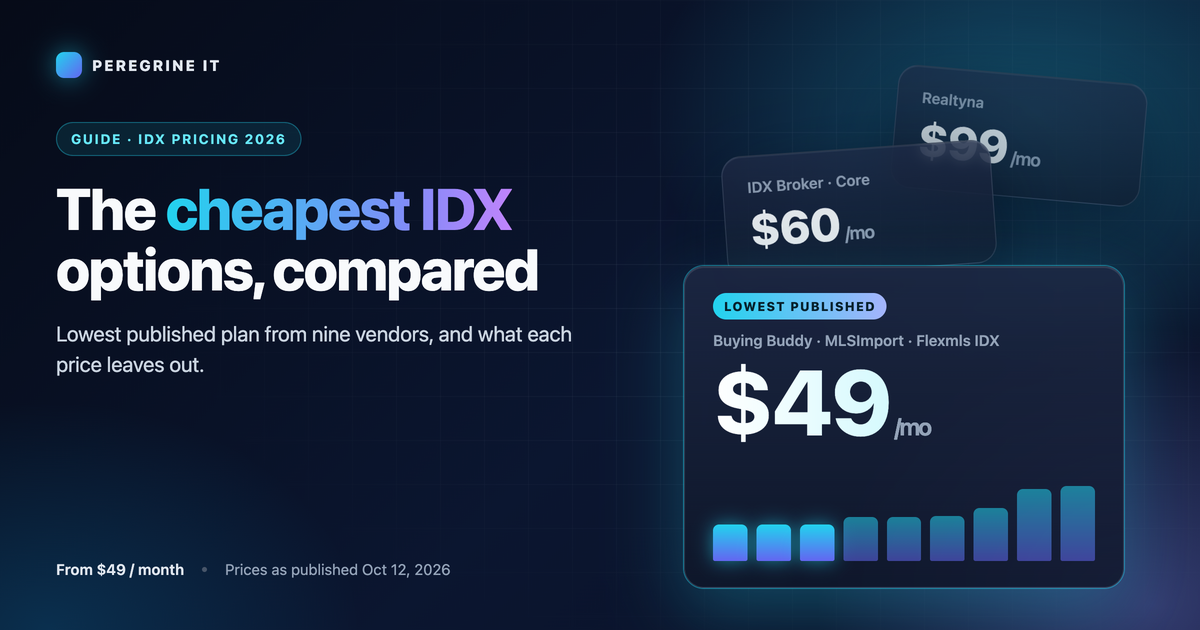
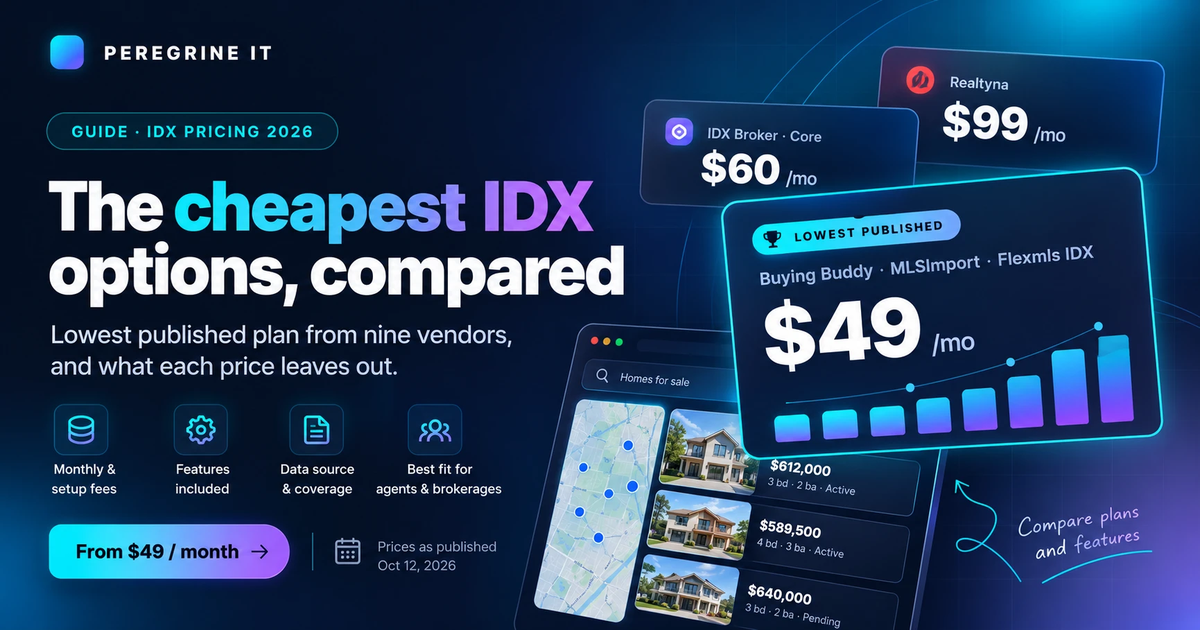
content: hero images for five more guides; supplied image used for the cheapest-IDX hero

diff --git a/design/blog-heroes/laravel-upgrade-checklist.html b/design/blog-heroes/laravel-upgrade-checklist.html
@@ -1,0 +1,41 @@
+<!doctype html><html lang="en"><head><meta charset="utf-8"><meta name="viewport" content="width=1200">
+<title>Guide · Laravel upgrade</title><style>
+*{box-sizing:border-box;margin:0;padding:0}
+html,body{width:1200px;height:630px;overflow:hidden}
+body{font-family:Inter,'SF Pro Display',system-ui,-apple-system,'Segoe UI',Roboto,Helvetica,Arial,sans-serif;color:#f8fafc;
+ background:#060b18;position:relative}
+.bg{position:absolute;inset:0;background:
+ radial-gradient(620px 420px at 86% 18%,rgba(34,211,238,.30),transparent 62%),
+ radial-gradient(560px 460px at 96% 96%,rgba(129,140,248,.34),transparent 60%),
+ radial-gradient(520px 380px at 4% 100%,rgba(14,165,233,.20),transparent 60%),
+ linear-gradient(135deg,#060b18 0%,#0b1630 55%,#0a1026 100%)}
+.grid{position:absolute;inset:0;background-image:linear-gradient(rgba(148,163,184,.07) 1px,transparent 1px),linear-gradient(90deg,rgba(148,163,184,.07) 1px,transparent 1px);
+ background-size:44px 44px;mask-image:radial-gradient(900px 520px at 70% 45%,#000 20%,transparent 75%);-webkit-mask-image:radial-gradient(900px 520px at 70% 45%,#000 20%,transparent 75%)}
+.wrap{position:absolute;inset:0;padding:52px 56px;display:flex;gap:28px}
+.left{width:560px;display:flex;flex-direction:column}
+.brand{display:flex;align-items:center;gap:10px;font-weight:800;letter-spacing:.14em;font-size:15px;color:#e2e8f0}
+.brand i{width:26px;height:26px;border-radius:8px;background:linear-gradient(135deg,#22d3ee,#6366f1);display:block;box-shadow:0 0 24px rgba(34,211,238,.55)}
+.pill{margin-top:44px;align-self:flex-start;font-size:13.5px;font-weight:700;letter-spacing:.12em;text-transform:uppercase;color:#67e8f9;
+ padding:8px 14px;border-radius:999px;background:rgba(34,211,238,.10);border:1px solid rgba(34,211,238,.35)}
+h1{margin-top:22px;font-size:58px;line-height:1.04;font-weight:800;letter-spacing:-.025em}
+h1 em{font-style:normal;background:linear-gradient(90deg,#22d3ee,#818cf8 70%,#c084fc);-webkit-background-clip:text;background-clip:text;color:transparent}
+.sub{margin-top:20px;font-size:21px;line-height:1.45;color:#cbd5e1;max-width:520px}
+.foot{margin-top:auto;display:flex;gap:18px;align-items:center;font-size:15px;color:#94a3b8}
+.foot b{color:#e2e8f0;font-weight:600}
+.dot{width:5px;height:5px;border-radius:50%;background:#475569}
+.right{flex:1;position:relative}
+.glass{background:linear-gradient(180deg,rgba(30,41,69,.82),rgba(15,23,42,.82));border:1px solid rgba(148,163,184,.22);border-radius:20px;
+ box-shadow:0 30px 80px rgba(2,6,23,.65),inset 0 1px 0 rgba(255,255,255,.07);backdrop-filter:blur(6px)}
+.glow{box-shadow:0 0 0 1px rgba(34,211,238,.45),0 24px 70px rgba(34,211,238,.28),inset 0 1px 0 rgba(255,255,255,.1)}
+.muted{color:#94a3b8}.cy{color:#67e8f9}
+.hop{position:absolute;right:26px;top:6px;display:flex;align-items:center;gap:8px}.hop span{width:50px;height:50px;border-radius:14px;display:flex;align-items:center;justify-content:center;font-weight:800;font-size:20px;background:rgba(30,41,69,.85);border:1px solid rgba(148,163,184,.3);color:#cbd5e1}
+.hop span.on{background:linear-gradient(135deg,#fb7185,#f43f5e);color:#fff;border:0;box-shadow:0 0 26px rgba(244,63,94,.6)}.hop u{width:22px;height:2px;background:#475569;display:block}
+.lc{position:absolute;right:20px;top:84px;width:430px;padding:0 0 14px;overflow:hidden}.hd{display:flex;align-items:center;gap:7px;padding:13px 16px;border-bottom:1px solid rgba(148,163,184,.18);margin-bottom:8px}.hd i{width:11px;height:11px;border-radius:50%;background:#475569}.hd b{margin-left:8px;font-size:13.5px;color:#94a3b8;font-weight:600}
+.lc p{display:flex;align-items:center;gap:12px;font-size:17px;padding:9px 20px;color:#e2e8f0}.lc s{text-decoration:none;width:24px;height:24px;border-radius:7px;background:linear-gradient(135deg,#22d3ee,#6366f1);color:#04121c;font-weight:800;font-size:15px;display:flex;align-items:center;justify-content:center}
+.lc p.todo{color:#94a3b8}.lc p.todo s{background:transparent;border:2px solid #475569}
+.opt{position:absolute;top:446px;font-size:15.5px;font-weight:700;padding:11px 16px;border-radius:13px;color:#a5f3fc}.o1{right:300px}.o2{right:128px}.o3{right:22px;color:#fda4af}</style></head><body><div class="bg"></div><div class="grid"></div>
+<div class="wrap"><div class="left"><div class="brand"><i></i>PEREGRINE IT</div><div class="pill">Guide · Laravel upgrade</div>
+<h1>Laravel <em>upgrade</em> checklist</h1><p class="sub">Upgrade in place, replace in stages or rewrite: a decision table and six phases.</p><div class="foot"><b>From Laravel's own upgrade guides</b><span class='dot'></span>No project claims</div></div><div class="right"><div class="hop"><span>9</span><u></u><span>10</span><u></u><span>11</span><u></u><span>12</span><u></u><span class="on">13</span></div>
+<div class="lc glass glow"><div class="hd"><i></i><i></i><i></i><b>upgrade-plan.md</b></div>
+<p><s>✓</s>Inventory versions and packages</p><p><s>✓</s>Add tests around what matters</p><p><s>✓</s>One major version per hop</p><p><s>✓</s>Fix deprecations, then upgrade</p><p><s>✓</s>Rehearse the deploy and rollback</p><p class="todo"><s></s>Go live, then watch the queues</p></div>
+<div class="opt glass o1">Upgrade in place</div><div class="opt glass o2">Replace in stages</div><div class="opt glass o3">Rewrite</div></div></div></body></html>

diff --git a/design/blog-heroes/mls-data-pipeline-architecture.html b/design/blog-heroes/mls-data-pipeline-architecture.html
@@ -1,0 +1,41 @@
+<!doctype html><html lang="en"><head><meta charset="utf-8"><meta name="viewport" content="width=1200">
+<title>Guide · MLS data pipeline</title><style>
+*{box-sizing:border-box;margin:0;padding:0}
+html,body{width:1200px;height:630px;overflow:hidden}
+body{font-family:Inter,'SF Pro Display',system-ui,-apple-system,'Segoe UI',Roboto,Helvetica,Arial,sans-serif;color:#f8fafc;
+ background:#060b18;position:relative}
+.bg{position:absolute;inset:0;background:
+ radial-gradient(620px 420px at 86% 18%,rgba(34,211,238,.30),transparent 62%),
+ radial-gradient(560px 460px at 96% 96%,rgba(129,140,248,.34),transparent 60%),
+ radial-gradient(520px 380px at 4% 100%,rgba(14,165,233,.20),transparent 60%),
+ linear-gradient(135deg,#060b18 0%,#0b1630 55%,#0a1026 100%)}
+.grid{position:absolute;inset:0;background-image:linear-gradient(rgba(148,163,184,.07) 1px,transparent 1px),linear-gradient(90deg,rgba(148,163,184,.07) 1px,transparent 1px);
+ background-size:44px 44px;mask-image:radial-gradient(900px 520px at 70% 45%,#000 20%,transparent 75%);-webkit-mask-image:radial-gradient(900px 520px at 70% 45%,#000 20%,transparent 75%)}
+.wrap{position:absolute;inset:0;padding:52px 56px;display:flex;gap:28px}
+.left{width:560px;display:flex;flex-direction:column}
+.brand{display:flex;align-items:center;gap:10px;font-weight:800;letter-spacing:.14em;font-size:15px;color:#e2e8f0}
+.brand i{width:26px;height:26px;border-radius:8px;background:linear-gradient(135deg,#22d3ee,#6366f1);display:block;box-shadow:0 0 24px rgba(34,211,238,.55)}
+.pill{margin-top:44px;align-self:flex-start;font-size:13.5px;font-weight:700;letter-spacing:.12em;text-transform:uppercase;color:#67e8f9;
+ padding:8px 14px;border-radius:999px;background:rgba(34,211,238,.10);border:1px solid rgba(34,211,238,.35)}
+h1{margin-top:22px;font-size:58px;line-height:1.04;font-weight:800;letter-spacing:-.025em}
+h1 em{font-style:normal;background:linear-gradient(90deg,#22d3ee,#818cf8 70%,#c084fc);-webkit-background-clip:text;background-clip:text;color:transparent}
+.sub{margin-top:20px;font-size:21px;line-height:1.45;color:#cbd5e1;max-width:520px}
+.foot{margin-top:auto;display:flex;gap:18px;align-items:center;font-size:15px;color:#94a3b8}
+.foot b{color:#e2e8f0;font-weight:600}
+.dot{width:5px;height:5px;border-radius:50%;background:#475569}
+.right{flex:1;position:relative}
+.glass{background:linear-gradient(180deg,rgba(30,41,69,.82),rgba(15,23,42,.82));border:1px solid rgba(148,163,184,.22);border-radius:20px;
+ box-shadow:0 30px 80px rgba(2,6,23,.65),inset 0 1px 0 rgba(255,255,255,.07);backdrop-filter:blur(6px)}
+.glow{box-shadow:0 0 0 1px rgba(34,211,238,.45),0 24px 70px rgba(34,211,238,.28),inset 0 1px 0 rgba(255,255,255,.1)}
+.muted{color:#94a3b8}.cy{color:#67e8f9}
+.left{width:540px}h1{font-size:54px}.flow{position:absolute;right:120px;top:12px;width:330px;display:flex;flex-direction:column;align-items:stretch}
+.nd{display:grid;grid-template-columns:44px 1fr;column-gap:14px;align-items:center;padding:13px 18px;border-radius:16px}.nd i{grid-row:span 2;width:44px;height:44px;border-radius:50%;display:flex;align-items:center;justify-content:center;font-style:normal;font-weight:800;font-size:19px;color:#04121c;background:linear-gradient(135deg,#22d3ee,#818cf8)}
+.nd b{font-size:20px}.nd small{font-size:14px;color:#94a3b8}.ar{height:22px;width:2px;margin:0 auto;background:linear-gradient(#22d3ee,#818cf8);position:relative}.ar:after{content:'';position:absolute;left:-5px;bottom:-2px;border:6px solid transparent;border-top-color:#818cf8}
+.side{position:absolute;right:0;top:214px;font-size:15px;font-weight:700;color:#a5f3fc;padding:12px 14px;border-radius:14px;writing-mode:vertical-rl}.side.s2{top:380px;color:#c4b5fd}</style></head><body><div class="bg"></div><div class="grid"></div>
+<div class="wrap"><div class="left"><div class="brand"><i></i>PEREGRINE IT</div><div class="pill">Guide · MLS data pipeline</div>
+<h1>How an <em>MLS data pipeline</em> works</h1><p class="sub">A nine-stage reference design for the RESO Web API, with failure modes.</p><div class="foot"><b>Replication</b><span class='dot'></span><b>Normalization</b><span class='dot'></span><b>Compliance</b><span class='dot'></span><b>Monitoring</b></div></div><div class="right"><div class="flow"><div class="nd glass"><i>1</i><b>Connector</b><small>OAuth 2 · paging · rate limits</small></div><div class="ar"></div>
+<div class="nd glass"><i>2</i><b>Replication</b><small>cursor per feed</small></div><div class="ar"></div>
+<div class="nd glass glow"><i>3</i><b>Normalize</b><small>RESO Data Dictionary</small></div><div class="ar"></div>
+<div class="nd glass"><i>4</i><b>Canonical store</b><small>one row per listing per feed</small></div><div class="ar"></div>
+<div class="nd glass"><i>5</i><b>Search index &amp; API</b><small>rebuildable from the store</small></div></div>
+<div class="side glass">Media worker</div><div class="side s2 glass">Display policy</div></div></div></body></html>

diff --git a/design/blog-heroes/self-storage-software-build-vs-buy.html b/design/blog-heroes/self-storage-software-build-vs-buy.html
@@ -1,0 +1,40 @@
+<!doctype html><html lang="en"><head><meta charset="utf-8"><meta name="viewport" content="width=1200">
+<title>Guide · Self-storage software</title><style>
+*{box-sizing:border-box;margin:0;padding:0}
+html,body{width:1200px;height:630px;overflow:hidden}
+body{font-family:Inter,'SF Pro Display',system-ui,-apple-system,'Segoe UI',Roboto,Helvetica,Arial,sans-serif;color:#f8fafc;
+ background:#060b18;position:relative}
+.bg{position:absolute;inset:0;background:
+ radial-gradient(620px 420px at 86% 18%,rgba(34,211,238,.30),transparent 62%),
+ radial-gradient(560px 460px at 96% 96%,rgba(129,140,248,.34),transparent 60%),
+ radial-gradient(520px 380px at 4% 100%,rgba(14,165,233,.20),transparent 60%),
+ linear-gradient(135deg,#060b18 0%,#0b1630 55%,#0a1026 100%)}
+.grid{position:absolute;inset:0;background-image:linear-gradient(rgba(148,163,184,.07) 1px,transparent 1px),linear-gradient(90deg,rgba(148,163,184,.07) 1px,transparent 1px);
+ background-size:44px 44px;mask-image:radial-gradient(900px 520px at 70% 45%,#000 20%,transparent 75%);-webkit-mask-image:radial-gradient(900px 520px at 70% 45%,#000 20%,transparent 75%)}
+.wrap{position:absolute;inset:0;padding:52px 56px;display:flex;gap:28px}
+.left{width:560px;display:flex;flex-direction:column}
+.brand{display:flex;align-items:center;gap:10px;font-weight:800;letter-spacing:.14em;font-size:15px;color:#e2e8f0}
+.brand i{width:26px;height:26px;border-radius:8px;background:linear-gradient(135deg,#22d3ee,#6366f1);display:block;box-shadow:0 0 24px rgba(34,211,238,.55)}
+.pill{margin-top:44px;align-self:flex-start;font-size:13.5px;font-weight:700;letter-spacing:.12em;text-transform:uppercase;color:#67e8f9;
+ padding:8px 14px;border-radius:999px;background:rgba(34,211,238,.10);border:1px solid rgba(34,211,238,.35)}
+h1{margin-top:22px;font-size:58px;line-height:1.04;font-weight:800;letter-spacing:-.025em}
+h1 em{font-style:normal;background:linear-gradient(90deg,#22d3ee,#818cf8 70%,#c084fc);-webkit-background-clip:text;background-clip:text;color:transparent}
+.sub{margin-top:20px;font-size:21px;line-height:1.45;color:#cbd5e1;max-width:520px}
+.foot{margin-top:auto;display:flex;gap:18px;align-items:center;font-size:15px;color:#94a3b8}
+.foot b{color:#e2e8f0;font-weight:600}
+.dot{width:5px;height:5px;border-radius:50%;background:#475569}
+.right{flex:1;position:relative}
+.glass{background:linear-gradient(180deg,rgba(30,41,69,.82),rgba(15,23,42,.82));border:1px solid rgba(148,163,184,.22);border-radius:20px;
+ box-shadow:0 30px 80px rgba(2,6,23,.65),inset 0 1px 0 rgba(255,255,255,.07);backdrop-filter:blur(6px)}
+.glow{box-shadow:0 0 0 1px rgba(34,211,238,.45),0 24px 70px rgba(34,211,238,.28),inset 0 1px 0 rgba(255,255,255,.1)}
+.muted{color:#94a3b8}.cy{color:#67e8f9}
+.left{width:560px}h1{font-size:52px}.ch{position:absolute;top:14px;width:236px;padding:20px 22px;border-radius:20px;display:flex;flex-direction:column}.ch b{font-size:34px;font-weight:800}.ch small{font-size:15px;color:#94a3b8;margin-top:4px}
+.c1{right:262px}.c2{right:0}.c2 b{background:linear-gradient(90deg,#22d3ee,#a5b4fc);-webkit-background-clip:text;background-clip:text;color:transparent}
+.units{position:absolute;right:0;top:186px;width:500px}.roof{height:26px;background:linear-gradient(180deg,#334155,#1e293b);border-radius:8px 8px 0 0;border:1px solid rgba(148,163,184,.3)}
+.row{display:flex;gap:12px;padding:14px 14px 0;background:linear-gradient(180deg,#16233f,#0e1830);border-left:1px solid rgba(148,163,184,.25);border-right:1px solid rgba(148,163,184,.25)}
+.row u{flex:1;height:176px;border-radius:6px 6px 0 0;display:block;background:repeating-linear-gradient(180deg,#f59e0b 0 13px,#d97706 13px 15px);box-shadow:inset 0 0 0 2px rgba(120,53,15,.5),0 0 26px rgba(245,158,11,.25)}
+.row u:nth-child(2),.row u:nth-child(5){background:repeating-linear-gradient(180deg,#22d3ee 0 13px,#0891b2 13px 15px);box-shadow:inset 0 0 0 2px rgba(8,51,68,.6),0 0 26px rgba(34,211,238,.3)}
+.ground{height:14px;background:#334155;border-radius:0 0 8px 8px;box-shadow:0 30px 60px rgba(2,6,23,.8)}</style></head><body><div class="bg"></div><div class="grid"></div>
+<div class="wrap"><div class="left"><div class="brand"><i></i>PEREGRINE IT</div><div class="pill">Guide · Self-storage software</div>
+<h1>Self-storage software: <em>build or buy?</em></h1><p class="sub">What the published products cover, where they stop, and when a custom build pays off.</p><div class="foot"><b>Costs</b><span class='dot'></span><b>Integrations</b><span class='dot'></span><b>Gate and lock access</b><span class='dot'></span><b>Billing</b></div></div><div class="right"><div class="ch glass c1"><b>Buy</b><small>faster start</small></div><div class="ch glass glow c2"><b>Build</b><small>your workflow · your data</small></div>
+<div class="units"><div class="roof"></div><div class="row"><u></u><u></u><u></u><u></u><u></u></div><div class="ground"></div></div></div></div></body></html>

diff --git a/design/blog-heroes/odoo-shopify-marketplace-integration.html b/design/blog-heroes/odoo-shopify-marketplace-integration.html
@@ -1,0 +1,39 @@
+<!doctype html><html lang="en"><head><meta charset="utf-8"><meta name="viewport" content="width=1200">
+<title>Guide · Odoo + Shopify integration</title><style>
+*{box-sizing:border-box;margin:0;padding:0}
+html,body{width:1200px;height:630px;overflow:hidden}
+body{font-family:Inter,'SF Pro Display',system-ui,-apple-system,'Segoe UI',Roboto,Helvetica,Arial,sans-serif;color:#f8fafc;
+ background:#060b18;position:relative}
+.bg{position:absolute;inset:0;background:
+ radial-gradient(620px 420px at 86% 18%,rgba(34,211,238,.30),transparent 62%),
+ radial-gradient(560px 460px at 96% 96%,rgba(129,140,248,.34),transparent 60%),
+ radial-gradient(520px 380px at 4% 100%,rgba(14,165,233,.20),transparent 60%),
+ linear-gradient(135deg,#060b18 0%,#0b1630 55%,#0a1026 100%)}
+.grid{position:absolute;inset:0;background-image:linear-gradient(rgba(148,163,184,.07) 1px,transparent 1px),linear-gradient(90deg,rgba(148,163,184,.07) 1px,transparent 1px);
+ background-size:44px 44px;mask-image:radial-gradient(900px 520px at 70% 45%,#000 20%,transparent 75%);-webkit-mask-image:radial-gradient(900px 520px at 70% 45%,#000 20%,transparent 75%)}
+.wrap{position:absolute;inset:0;padding:52px 56px;display:flex;gap:28px}
+.left{width:560px;display:flex;flex-direction:column}
+.brand{display:flex;align-items:center;gap:10px;font-weight:800;letter-spacing:.14em;font-size:15px;color:#e2e8f0}
+.brand i{width:26px;height:26px;border-radius:8px;background:linear-gradient(135deg,#22d3ee,#6366f1);display:block;box-shadow:0 0 24px rgba(34,211,238,.55)}
+.pill{margin-top:44px;align-self:flex-start;font-size:13.5px;font-weight:700;letter-spacing:.12em;text-transform:uppercase;color:#67e8f9;
+ padding:8px 14px;border-radius:999px;background:rgba(34,211,238,.10);border:1px solid rgba(34,211,238,.35)}
+h1{margin-top:22px;font-size:58px;line-height:1.04;font-weight:800;letter-spacing:-.025em}
+h1 em{font-style:normal;background:linear-gradient(90deg,#22d3ee,#818cf8 70%,#c084fc);-webkit-background-clip:text;background-clip:text;color:transparent}
+.sub{margin-top:20px;font-size:21px;line-height:1.45;color:#cbd5e1;max-width:520px}
+.foot{margin-top:auto;display:flex;gap:18px;align-items:center;font-size:15px;color:#94a3b8}
+.foot b{color:#e2e8f0;font-weight:600}
+.dot{width:5px;height:5px;border-radius:50%;background:#475569}
+.right{flex:1;position:relative}
+.glass{background:linear-gradient(180deg,rgba(30,41,69,.82),rgba(15,23,42,.82));border:1px solid rgba(148,163,184,.22);border-radius:20px;
+ box-shadow:0 30px 80px rgba(2,6,23,.65),inset 0 1px 0 rgba(255,255,255,.07);backdrop-filter:blur(6px)}
+.glow{box-shadow:0 0 0 1px rgba(34,211,238,.45),0 24px 70px rgba(34,211,238,.28),inset 0 1px 0 rgba(255,255,255,.1)}
+.muted{color:#94a3b8}.cy{color:#67e8f9}
+.left{width:540px}h1{font-size:54px}.sys{position:absolute;top:36px;width:206px;height:150px;display:flex;flex-direction:column;justify-content:center;align-items:center;border-radius:24px}.sys b{font-size:34px;font-weight:800;letter-spacing:-.02em}.sys small{font-size:14px;color:#94a3b8;margin-top:6px}
+.sys.a{right:330px}.sys.a b{color:#e9d5ff}.sys.b{right:0}.sys.b b{color:#a7f3d0}.lk{position:absolute;right:212px;top:62px;width:112px;height:78px}
+.rec{position:absolute;right:0;top:236px;width:536px;display:grid;grid-template-columns:1fr 1fr;gap:14px}.rec div{padding:16px 20px;border-radius:16px;font-size:20px;font-weight:800;display:flex;flex-direction:column}.rec small{font-size:14.5px;font-weight:600;color:#67e8f9;margin-top:4px}</style></head><body><div class="bg"></div><div class="grid"></div>
+<div class="wrap"><div class="left"><div class="brand"><i></i>PEREGRINE IT</div><div class="pill">Guide · Odoo + Shopify integration</div>
+<h1><em>Odoo and Shopify</em> integration guide</h1><p class="sub">Which system owns each record, webhooks plus polling, rate limits and failure modes.</p><div class="foot"><b>From Odoo and Shopify documentation</b></div></div><div class="right"><div class="sys glass a"><b>Odoo</b><small>ERP · stock · accounting</small></div><div class="sys glass glow b"><b>Shopify</b><small>storefront · checkout</small></div>
+<svg class="lk" viewBox="0 0 160 110"><defs><linearGradient id="l" x1="0" x2="1"><stop offset="0" stop-color="#22d3ee"/><stop offset="1" stop-color="#818cf8"/></linearGradient></defs>
+<path d="M12 36 H140 M124 20 L142 36 L124 52" fill="none" stroke="url(#l)" stroke-width="5" stroke-linecap="round" stroke-linejoin="round"/>
+<path d="M148 78 H20 M36 62 L18 78 L36 94" fill="none" stroke="url(#l)" stroke-width="5" stroke-linecap="round" stroke-linejoin="round"/></svg>
+<div class="rec"><div class="glass">Products<small>Odoo → Shopify</small></div><div class="glass">Stock<small>Odoo → Shopify</small></div><div class="glass">Orders<small>Shopify → Odoo</small></div><div class="glass">Refunds<small>Shopify → Odoo</small></div></div></div></div></body></html>

diff --git a/design/blog-heroes/investor-portal-security-checklist.html b/design/blog-heroes/investor-portal-security-checklist.html
@@ -1,0 +1,40 @@
+<!doctype html><html lang="en"><head><meta charset="utf-8"><meta name="viewport" content="width=1200">
+<title>Guide · Investor portal security</title><style>
+*{box-sizing:border-box;margin:0;padding:0}
+html,body{width:1200px;height:630px;overflow:hidden}
+body{font-family:Inter,'SF Pro Display',system-ui,-apple-system,'Segoe UI',Roboto,Helvetica,Arial,sans-serif;color:#f8fafc;
+ background:#060b18;position:relative}
+.bg{position:absolute;inset:0;background:
+ radial-gradient(620px 420px at 86% 18%,rgba(34,211,238,.30),transparent 62%),
+ radial-gradient(560px 460px at 96% 96%,rgba(129,140,248,.34),transparent 60%),
+ radial-gradient(520px 380px at 4% 100%,rgba(14,165,233,.20),transparent 60%),
+ linear-gradient(135deg,#060b18 0%,#0b1630 55%,#0a1026 100%)}
+.grid{position:absolute;inset:0;background-image:linear-gradient(rgba(148,163,184,.07) 1px,transparent 1px),linear-gradient(90deg,rgba(148,163,184,.07) 1px,transparent 1px);
+ background-size:44px 44px;mask-image:radial-gradient(900px 520px at 70% 45%,#000 20%,transparent 75%);-webkit-mask-image:radial-gradient(900px 520px at 70% 45%,#000 20%,transparent 75%)}
+.wrap{position:absolute;inset:0;padding:52px 56px;display:flex;gap:28px}
+.left{width:560px;display:flex;flex-direction:column}
+.brand{display:flex;align-items:center;gap:10px;font-weight:800;letter-spacing:.14em;font-size:15px;color:#e2e8f0}
+.brand i{width:26px;height:26px;border-radius:8px;background:linear-gradient(135deg,#22d3ee,#6366f1);display:block;box-shadow:0 0 24px rgba(34,211,238,.55)}
+.pill{margin-top:44px;align-self:flex-start;font-size:13.5px;font-weight:700;letter-spacing:.12em;text-transform:uppercase;color:#67e8f9;
+ padding:8px 14px;border-radius:999px;background:rgba(34,211,238,.10);border:1px solid rgba(34,211,238,.35)}
+h1{margin-top:22px;font-size:58px;line-height:1.04;font-weight:800;letter-spacing:-.025em}
+h1 em{font-style:normal;background:linear-gradient(90deg,#22d3ee,#818cf8 70%,#c084fc);-webkit-background-clip:text;background-clip:text;color:transparent}
+.sub{margin-top:20px;font-size:21px;line-height:1.45;color:#cbd5e1;max-width:520px}
+.foot{margin-top:auto;display:flex;gap:18px;align-items:center;font-size:15px;color:#94a3b8}
+.foot b{color:#e2e8f0;font-weight:600}
+.dot{width:5px;height:5px;border-radius:50%;background:#475569}
+.right{flex:1;position:relative}
+.glass{background:linear-gradient(180deg,rgba(30,41,69,.82),rgba(15,23,42,.82));border:1px solid rgba(148,163,184,.22);border-radius:20px;
+ box-shadow:0 30px 80px rgba(2,6,23,.65),inset 0 1px 0 rgba(255,255,255,.07);backdrop-filter:blur(6px)}
+.glow{box-shadow:0 0 0 1px rgba(34,211,238,.45),0 24px 70px rgba(34,211,238,.28),inset 0 1px 0 rgba(255,255,255,.1)}
+.muted{color:#94a3b8}.cy{color:#67e8f9}
+.left{width:560px}h1{font-size:54px}.sh{position:absolute;right:150px;top:44px;width:270px;height:306px}
+.ck{position:absolute;font-size:16.5px;font-weight:700;color:#e2e8f0;padding:12px 18px;border-radius:14px}.k1{right:0;top:6px}.k2{right:-6px;top:156px}.k3{right:330px;top:300px}.k4{right:20px;top:372px}.k1,.k3{color:#a5f3fc}</style></head><body><div class="bg"></div><div class="grid"></div>
+<div class="wrap"><div class="left"><div class="brand"><i></i>PEREGRINE IT</div><div class="pill">Guide · Investor portal security</div>
+<h1>Investor portal <em>security checklist</em></h1><p class="sub">Access by role and entity, document controls, audit trail and sign-in, mapped to public standards.</p><div class="foot"><b>OWASP ASVS 5.0</b><span class='dot'></span><b>NIST SP 800-63B</b></div></div><div class="right"><svg class="sh" viewBox="0 0 300 340"><defs><linearGradient id="s1" x1="0" y1="0" x2="1" y2="1"><stop offset="0" stop-color="#22d3ee"/><stop offset="1" stop-color="#6366f1"/></linearGradient><filter id="b"><feGaussianBlur stdDeviation="14"/></filter></defs>
+<path d="M150 14 L276 60 V168 C276 244 222 300 150 326 C78 300 24 244 24 168 V60 Z" fill="#22d3ee" opacity=".35" filter="url(#b)"/>
+<path d="M150 14 L276 60 V168 C276 244 222 300 150 326 C78 300 24 244 24 168 V60 Z" fill="#0b1630" stroke="url(#s1)" stroke-width="5"/>
+<path d="M150 44 L250 80 V168 C250 228 208 274 150 296 C92 274 50 228 50 168 V80 Z" fill="url(#s1)" opacity=".16"/>
+<rect x="104" y="150" width="92" height="76" rx="14" fill="url(#s1)"/><path d="M122 150 v-22 a28 28 0 0 1 56 0 v22" fill="none" stroke="url(#s1)" stroke-width="13" stroke-linecap="round"/>
+<circle cx="150" cy="182" r="9" fill="#06202b"/><rect x="146" y="184" width="8" height="22" rx="4" fill="#06202b"/></svg>
+<div class="ck glass k1">✓ Access by role and entity</div><div class="ck glass k2">✓ Watermarked documents</div><div class="ck glass k3">✓ Audit trail</div><div class="ck glass k4">✓ Sessions and sign-in</div></div></div></body></html>

diff --git a/src/data/guides.ts b/src/data/guides.ts
@@ -135,6 +135,7 @@ export const guides: Guide[] = [
   },
   {
     slug: 'self-storage-software-build-vs-buy',
+    hero: 'Illustration: a row of storage unit doors under two cards labelled Buy and Build.',
     related: ['custom-saas-vs-off-the-shelf-crm-for-brokerages'],
     cta: {
       heading: 'Weighing a Custom Self-Storage Platform?',
@@ -183,6 +184,7 @@ export const guides: Guide[] = [
   },
   {
     slug: 'mls-data-pipeline-architecture',
+    hero: 'Illustration: five pipeline stages from connector to search index and API, with media worker and display policy alongside.',
     related: ['real-estate-platform-tech-stack', 'mls-boards-compared'],
     cta: {
       heading: 'Designing or Repairing an MLS Pipeline?',
@@ -199,6 +201,7 @@ export const guides: Guide[] = [
   },
   {
     slug: 'laravel-upgrade-checklist',
+    hero: 'Illustration: Laravel versions 9 to 13 in a row above an upgrade checklist and three routes: upgrade in place, replace in stages, rewrite.',
     related: ['odoo-implementation-cost', 'custom-saas-vs-off-the-shelf-crm-for-brokerages'],
     cta: {
       heading: 'Planning a Laravel Upgrade?',
@@ -215,6 +218,7 @@ export const guides: Guide[] = [
   },
   {
     slug: 'investor-portal-security-checklist',
+    hero: 'Illustration: a shield with a padlock and four checklist items: access by role and entity, watermarked documents, audit trail, sessions and sign-in.',
     related: ['investor-portal-vs-file-sharing', 'cost-to-build-a-real-estate-platform'],
     cta: {
       heading: 'Specifying or Reviewing an Investor Portal?',
@@ -231,6 +235,7 @@ export const guides: Guide[] = [
   },
   {
     slug: 'odoo-shopify-marketplace-integration',
+    hero: 'Illustration: Odoo and Shopify connected by arrows, with the sync direction for products, stock, orders and refunds.',
     related: ['odoo-implementation-cost', 'laravel-upgrade-checklist'],
     cta: {
       heading: 'Connecting Odoo to a Sales Channel?',
@@ -247,7 +252,7 @@ export const guides: Guide[] = [
   },
   {
     slug: 'cheapest-idx-options',
-    hero: 'Illustration: price cards showing the lowest published IDX plans, from $49 per month.',
+    hero: 'Illustration: price cards for the lowest published IDX plans ($49, $60 and $99 per month) beside a listing search screen.',
     related: ['mls-idx-integration-cost', 'idx-vendor-vs-custom-build'],
     cta: {
       heading: 'Outgrown a Low-Cost IDX Plan?',

diff --git a/design/blog-heroes/build.py b/design/blog-heroes/build.py
@@ -114,8 +114,72 @@ seo = page("Guide · Search visibility", "<em>SEO, AEO &amp; GEO</em> for real e
 .core{position:absolute;right:186px;top:246px;width:136px;text-align:center;font-size:16px;font-weight:800;line-height:1.25;color:#04121c;background:#f8fafc;border-radius:14px;padding:10px 8px;box-shadow:0 10px 30px rgba(2,6,23,.6)}
 .q{position:absolute;right:38px;top:6px;display:flex;gap:10px;align-items:center;font-size:16.5px;color:#e2e8f0;padding:12px 18px;border-radius:999px}""")
 
+
+pipeline = page("Guide · MLS data pipeline", "How an <em>MLS data pipeline</em> works", "A nine-stage reference design for the RESO Web API, with failure modes.",
+ "<b>Replication</b><span class='dot'></span><b>Normalization</b><span class='dot'></span><b>Compliance</b><span class='dot'></span><b>Monitoring</b>",
+ """<div class="flow"><div class="nd glass"><i>1</i><b>Connector</b><small>OAuth 2 · paging · rate limits</small></div><div class="ar"></div>
+<div class="nd glass"><i>2</i><b>Replication</b><small>cursor per feed</small></div><div class="ar"></div>
+<div class="nd glass glow"><i>3</i><b>Normalize</b><small>RESO Data Dictionary</small></div><div class="ar"></div>
+<div class="nd glass"><i>4</i><b>Canonical store</b><small>one row per listing per feed</small></div><div class="ar"></div>
+<div class="nd glass"><i>5</i><b>Search index &amp; API</b><small>rebuildable from the store</small></div></div>
+<div class="side glass">Media worker</div><div class="side s2 glass">Display policy</div>""",
+ """.left{width:540px}h1{font-size:54px}.flow{position:absolute;right:120px;top:12px;width:330px;display:flex;flex-direction:column;align-items:stretch}
+.nd{display:grid;grid-template-columns:44px 1fr;column-gap:14px;align-items:center;padding:13px 18px;border-radius:16px}.nd i{grid-row:span 2;width:44px;height:44px;border-radius:50%;display:flex;align-items:center;justify-content:center;font-style:normal;font-weight:800;font-size:19px;color:#04121c;background:linear-gradient(135deg,#22d3ee,#818cf8)}
+.nd b{font-size:20px}.nd small{font-size:14px;color:#94a3b8}.ar{height:22px;width:2px;margin:0 auto;background:linear-gradient(#22d3ee,#818cf8);position:relative}.ar:after{content:'';position:absolute;left:-5px;bottom:-2px;border:6px solid transparent;border-top-color:#818cf8}
+.side{position:absolute;right:0;top:214px;font-size:15px;font-weight:700;color:#a5f3fc;padding:12px 14px;border-radius:14px;writing-mode:vertical-rl}.side.s2{top:380px;color:#c4b5fd}""")
+
+security = page("Guide · Investor portal security", "Investor portal <em>security checklist</em>", "Access by role and entity, document controls, audit trail and sign-in, mapped to public standards.",
+ "<b>OWASP ASVS 5.0</b><span class='dot'></span><b>NIST SP 800-63B</b>",
+ """<svg class="sh" viewBox="0 0 300 340"><defs><linearGradient id="s1" x1="0" y1="0" x2="1" y2="1"><stop offset="0" stop-color="#22d3ee"/><stop offset="1" stop-color="#6366f1"/></linearGradient><filter id="b"><feGaussianBlur stdDeviation="14"/></filter></defs>
+<path d="M150 14 L276 60 V168 C276 244 222 300 150 326 C78 300 24 244 24 168 V60 Z" fill="#22d3ee" opacity=".35" filter="url(#b)"/>
+<path d="M150 14 L276 60 V168 C276 244 222 300 150 326 C78 300 24 244 24 168 V60 Z" fill="#0b1630" stroke="url(#s1)" stroke-width="5"/>
+<path d="M150 44 L250 80 V168 C250 228 208 274 150 296 C92 274 50 228 50 168 V80 Z" fill="url(#s1)" opacity=".16"/>
+<rect x="104" y="150" width="92" height="76" rx="14" fill="url(#s1)"/><path d="M122 150 v-22 a28 28 0 0 1 56 0 v22" fill="none" stroke="url(#s1)" stroke-width="13" stroke-linecap="round"/>
+<circle cx="150" cy="182" r="9" fill="#06202b"/><rect x="146" y="184" width="8" height="22" rx="4" fill="#06202b"/></svg>
+<div class="ck glass k1">✓ Access by role and entity</div><div class="ck glass k2">✓ Watermarked documents</div><div class="ck glass k3">✓ Audit trail</div><div class="ck glass k4">✓ Sessions and sign-in</div>""",
+ """.left{width:560px}h1{font-size:54px}.sh{position:absolute;right:150px;top:44px;width:270px;height:306px}
+.ck{position:absolute;font-size:16.5px;font-weight:700;color:#e2e8f0;padding:12px 18px;border-radius:14px}.k1{right:0;top:6px}.k2{right:-6px;top:156px}.k3{right:330px;top:300px}.k4{right:20px;top:372px}.k1,.k3{color:#a5f3fc}""")
+
+laravel = page("Guide · Laravel upgrade", "Laravel <em>upgrade</em> checklist", "Upgrade in place, replace in stages or rewrite: a decision table and six phases.",
+ "<b>From Laravel's own upgrade guides</b><span class='dot'></span>No project claims",
+ """<div class="hop"><span>9</span><u></u><span>10</span><u></u><span>11</span><u></u><span>12</span><u></u><span class="on">13</span></div>
+<div class="lc glass glow"><div class="hd"><i></i><i></i><i></i><b>upgrade-plan.md</b></div>
+<p><s>✓</s>Inventory versions and packages</p><p><s>✓</s>Add tests around what matters</p><p><s>✓</s>One major version per hop</p><p><s>✓</s>Fix deprecations, then upgrade</p><p><s>✓</s>Rehearse the deploy and rollback</p><p class="todo"><s></s>Go live, then watch the queues</p></div>
+<div class="opt glass o1">Upgrade in place</div><div class="opt glass o2">Replace in stages</div><div class="opt glass o3">Rewrite</div>""",
+ """.hop{position:absolute;right:26px;top:6px;display:flex;align-items:center;gap:8px}.hop span{width:50px;height:50px;border-radius:14px;display:flex;align-items:center;justify-content:center;font-weight:800;font-size:20px;background:rgba(30,41,69,.85);border:1px solid rgba(148,163,184,.3);color:#cbd5e1}
+.hop span.on{background:linear-gradient(135deg,#fb7185,#f43f5e);color:#fff;border:0;box-shadow:0 0 26px rgba(244,63,94,.6)}.hop u{width:22px;height:2px;background:#475569;display:block}
+.lc{position:absolute;right:20px;top:84px;width:430px;padding:0 0 14px;overflow:hidden}.hd{display:flex;align-items:center;gap:7px;padding:13px 16px;border-bottom:1px solid rgba(148,163,184,.18);margin-bottom:8px}.hd i{width:11px;height:11px;border-radius:50%;background:#475569}.hd b{margin-left:8px;font-size:13.5px;color:#94a3b8;font-weight:600}
+.lc p{display:flex;align-items:center;gap:12px;font-size:17px;padding:9px 20px;color:#e2e8f0}.lc s{text-decoration:none;width:24px;height:24px;border-radius:7px;background:linear-gradient(135deg,#22d3ee,#6366f1);color:#04121c;font-weight:800;font-size:15px;display:flex;align-items:center;justify-content:center}
+.lc p.todo{color:#94a3b8}.lc p.todo s{background:transparent;border:2px solid #475569}
+.opt{position:absolute;top:446px;font-size:15.5px;font-weight:700;padding:11px 16px;border-radius:13px;color:#a5f3fc}.o1{right:300px}.o2{right:128px}.o3{right:22px;color:#fda4af}""")
+
+odoo = page("Guide · Odoo + Shopify integration", "<em>Odoo and Shopify</em> integration guide", "Which system owns each record, webhooks plus polling, rate limits and failure modes.",
+ "<b>From Odoo and Shopify documentation</b>",
+ """<div class="sys glass a"><b>Odoo</b><small>ERP · stock · accounting</small></div><div class="sys glass glow b"><b>Shopify</b><small>storefront · checkout</small></div>
+<svg class="lk" viewBox="0 0 160 110"><defs><linearGradient id="l" x1="0" x2="1"><stop offset="0" stop-color="#22d3ee"/><stop offset="1" stop-color="#818cf8"/></linearGradient></defs>
+<path d="M12 36 H140 M124 20 L142 36 L124 52" fill="none" stroke="url(#l)" stroke-width="5" stroke-linecap="round" stroke-linejoin="round"/>
+<path d="M148 78 H20 M36 62 L18 78 L36 94" fill="none" stroke="url(#l)" stroke-width="5" stroke-linecap="round" stroke-linejoin="round"/></svg>
+<div class="rec"><div class="glass">Products<small>Odoo → Shopify</small></div><div class="glass">Stock<small>Odoo → Shopify</small></div><div class="glass">Orders<small>Shopify → Odoo</small></div><div class="glass">Refunds<small>Shopify → Odoo</small></div></div>""",
+ """.left{width:540px}h1{font-size:54px}.sys{position:absolute;top:36px;width:206px;height:150px;display:flex;flex-direction:column;justify-content:center;align-items:center;border-radius:24px}.sys b{font-size:34px;font-weight:800;letter-spacing:-.02em}.sys small{font-size:14px;color:#94a3b8;margin-top:6px}
+.sys.a{right:330px}.sys.a b{color:#e9d5ff}.sys.b{right:0}.sys.b b{color:#a7f3d0}.lk{position:absolute;right:212px;top:62px;width:112px;height:78px}
+.rec{position:absolute;right:0;top:236px;width:536px;display:grid;grid-template-columns:1fr 1fr;gap:14px}.rec div{padding:16px 20px;border-radius:16px;font-size:20px;font-weight:800;display:flex;flex-direction:column}.rec small{font-size:14.5px;font-weight:600;color:#67e8f9;margin-top:4px}""")
+
+storage = page("Guide · Self-storage software", "Self-storage software: <em>build or buy?</em>", "What the published products cover, where they stop, and when a custom build pays off.",
+ "<b>Costs</b><span class='dot'></span><b>Integrations</b><span class='dot'></span><b>Gate and lock access</b><span class='dot'></span><b>Billing</b>",
+ """<div class="ch glass c1"><b>Buy</b><small>faster start</small></div><div class="ch glass glow c2"><b>Build</b><small>your workflow · your data</small></div>
+<div class="units"><div class="roof"></div><div class="row"><u></u><u></u><u></u><u></u><u></u></div><div class="ground"></div></div>""",
+ """.left{width:560px}h1{font-size:52px}.ch{position:absolute;top:14px;width:236px;padding:20px 22px;border-radius:20px;display:flex;flex-direction:column}.ch b{font-size:34px;font-weight:800}.ch small{font-size:15px;color:#94a3b8;margin-top:4px}
+.c1{right:262px}.c2{right:0}.c2 b{background:linear-gradient(90deg,#22d3ee,#a5b4fc);-webkit-background-clip:text;background-clip:text;color:transparent}
+.units{position:absolute;right:0;top:186px;width:500px}.roof{height:26px;background:linear-gradient(180deg,#334155,#1e293b);border-radius:8px 8px 0 0;border:1px solid rgba(148,163,184,.3)}
+.row{display:flex;gap:12px;padding:14px 14px 0;background:linear-gradient(180deg,#16233f,#0e1830);border-left:1px solid rgba(148,163,184,.25);border-right:1px solid rgba(148,163,184,.25)}
+.row u{flex:1;height:176px;border-radius:6px 6px 0 0;display:block;background:repeating-linear-gradient(180deg,#f59e0b 0 13px,#d97706 13px 15px);box-shadow:inset 0 0 0 2px rgba(120,53,15,.5),0 0 26px rgba(245,158,11,.25)}
+.row u:nth-child(2),.row u:nth-child(5){background:repeating-linear-gradient(180deg,#22d3ee 0 13px,#0891b2 13px 15px);box-shadow:inset 0 0 0 2px rgba(8,51,68,.6),0 0 26px rgba(34,211,238,.3)}
+.ground{height:14px;background:#334155;border-radius:0 0 8px 8px;box-shadow:0 30px 60px rgba(2,6,23,.8)}""")
+
 PAGES = {"cheapest-idx-options": cheapest, "idx-website-features-checklist": features, "mls-boards-compared": boards,
-         "real-estate-platform-tech-stack": stack, "real-estate-website-seo-aeo-geo": seo}
+         "real-estate-platform-tech-stack": stack, "real-estate-website-seo-aeo-geo": seo,
+         "mls-data-pipeline-architecture": pipeline, "investor-portal-security-checklist": security, "laravel-upgrade-checklist": laravel,
+         "odoo-shopify-marketplace-integration": odoo, "self-storage-software-build-vs-buy": storage}
 if __name__ == "__main__":
     for slug, doc in PAGES.items():
         open(os.path.join(D, slug + ".html"), "w").write(doc); print("wrote", slug + ".html")
